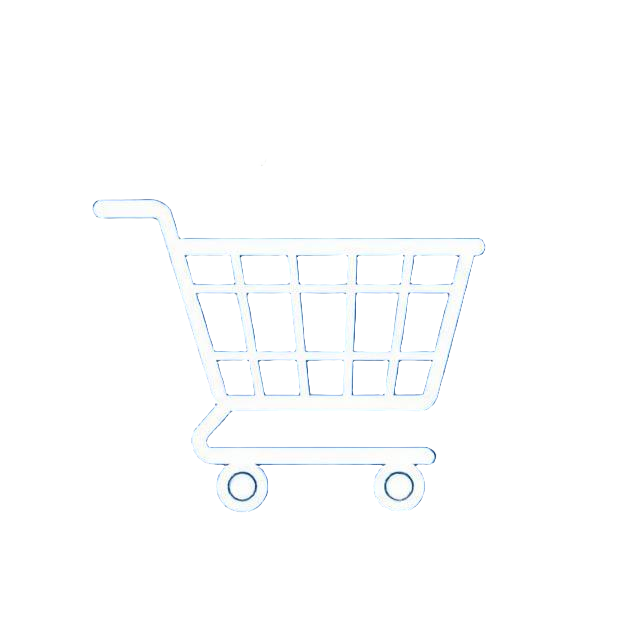
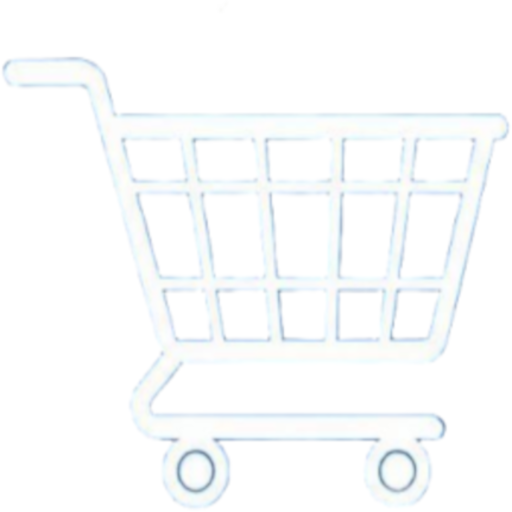
Navbar

diff --git a/mmrk_python/static/css/main.css b/mmrk_python/static/css/main.css
@@ -1,0 +1,95 @@
+body{
+    background-color: hsl(0, 0%, 98%);
+}
+  
+h1,h2,h3,h4,h5,h6{
+    color:hsl(0, 0%, 30%);
+}
+
+.box-element{
+    box-shadow:hsl(0, 0%, 80%) 0 0 16px;
+    background-color: #fff;
+    border-radius: 4px;
+    padding: 10px;
+}
+
+.thumbnail{
+    width: 100%;
+    height: 200px;
+    -webkit-box-shadow: -1px -3px 5px -2px rgba(214,214,214,1);
+    -moz-box-shadow: -1px -3px 5px -2px rgba(214,214,214,1);
+    box-shadow: -1px -3px 5px -2px rgba(214,214,214,1);
+}
+
+.product{
+    border-radius: 0 0 4px 4px;
+}
+
+.bg-dark{
+    background-color: #4f868c!important;
+}
+
+#cart-icon{
+    width:60px;
+    display: inline-block;
+    margin-left: 15px;
+}
+
+#cart-total{
+    display: inline-block;
+    text-align: center;
+    color:#fff;
+    background-color: red;
+    width: 20px;
+    height: 25px;
+    border-radius: 50%;
+    font-size: 14px;
+}
+
+.col-lg-4, .col-lg-6, .col-lg-8, .col-lg-12{
+    margin-top: 10px;
+}
+
+.btn{
+    border-radius: 0;
+}
+
+.row-image{
+    width: 100px;
+}
+
+.form-field{
+    width:250px;
+    display: inline-block;
+    padding: 5px;
+}
+
+.cart-row{
+    display: flex;
+    align-items: flex-stretch;
+    padding-bottom: 10px;
+    margin-bottom: 10px;
+    border-bottom: 1px solid #ececec;
+}
+
+.quantity{
+    display: inline-block;
+    font-weight: 700;
+    padding-right:10px;
+}
+
+.chg-quantity{
+    width: 12px;
+    cursor: pointer;
+    display: block;
+    margin-top: 5px;
+    transition:.1s;
+}
+
+.chg-quantity:hover{
+    opacity: .6;
+}
+
+.hidden{
+    display: none!important;
+}

diff --git a/mmrk_python/store/templates/store/main.html b/mmrk_python/store/templates/store/main.html
@@ -8,10 +8,32 @@
     <link rel="stylesheet" type="text/css" href="{% static 'css/main.css' %}">
     <title>MMRK</title>
 </head>
+
 <body>
-    <h3>Navbar placeholder</h3>
-    <hr>
-    
+    <nav class="navbar navbar-expand-lg bg-dark-subtle">
+      <div class="container-fluid">
+        <a class="navbar-brand" href="{% url 'store' %}">MMRK</a>
+        <button class="navbar-toggler" type="button" data-bs-toggle="collapse" data-bs-target="#navbarSupportedContent" aria-controls="navbarSupportedContent" aria-expanded="false" aria-label="Toggle navigation">
+          <span class="navbar-toggler-icon"></span>
+        </button>
+        <div class="collapse navbar-collapse" id="navbarSupportedContent">
+          <ul class="navbar-nav me-auto mb-2 mb-lg-0">
+            <li class="nav-item">
+              <a class="nav-link active" aria-current="page" href="{% url 'store' %}">Store</a>
+            </li>
+          </ul>
+
+          <div class="form-inline my-2 my-lg-0">
+            <a href="#" class="btn btn-warning">Login</a>
+            <a href="{% url 'cart' %}">
+                <img id="cart-icon" src="{% static 'images/cart.png' %}" alt="AI generated shopping cart icon">
+            </a>
+            <p id="cart-total">0</p>
+          </div>
+        </div>
+      </div>
+    </nav>
+
     <div class="container">
         <br>
         {% block content %}
